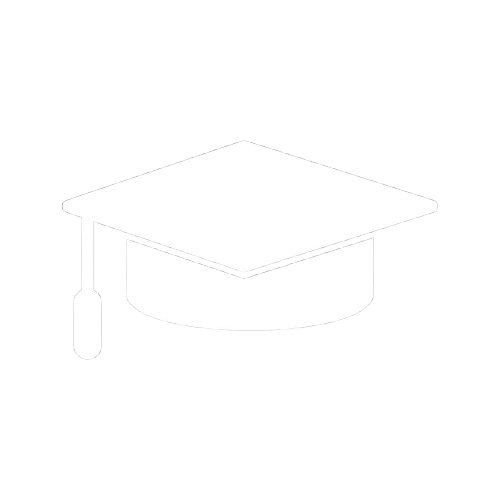
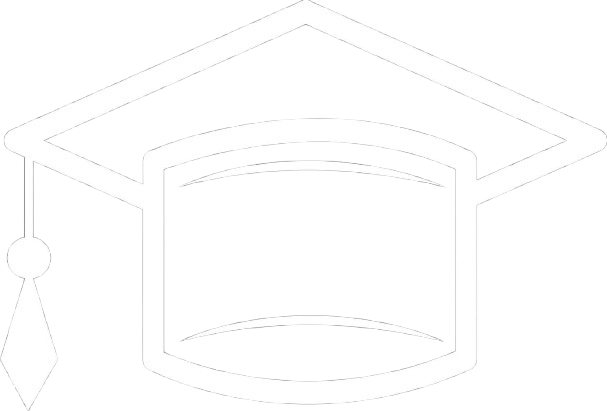
adicionado novas imagens

diff --git a/index.html b/index.html
@@ -197,7 +197,7 @@
         <div class="row">
           <div class="col-lg-6">
             <div class="about__pic">
-              <img src="img/about/about.png" alt="DJ Fernando" />
+              <img src="img/about/about_1.jpeg" alt="DJ Fernando" />
             </div>
           </div>
           <div class="col-lg-6">
@@ -261,18 +261,21 @@
                   <img src="img/services/service-2.png" alt="" />
                   <h4>Formatura</h4>
                   <p>
-                    Energia contagiante que faz a pista ferver do início ao fim.
-                    A experiência completa que seu público merece.
+                    Celebre essa conquista com uma festa inesquecível. Música
+                    envolvente, energia contagiante e uma pista animada para
+                    transformar sua formatura em um momento único.
                   </p>
                 </div>
               </div>
+
               <div class="col-lg-6 p-0 order-lg-4 col-md-6 order-md-4">
                 <div class="service__item deep-bg">
-                  <img src="img/services/service-4.png" alt="" />
-                  <h4>Aulas de DJ</h4>
+                  <img src="img/services/service-4.png" alt="" style="width: 80px;"/>
+                  <h4>XV Anos</h4>
                   <p>
-                    Compartilho minha experiência e técnicas em aulas
-                    personalizadas para quem deseja entrar no mundo da música.
+                    Uma noite mágica para celebrar seus 15 anos com estilo,
+                    emoção e muita música. Cada detalhe pensado para criar
+                    momentos inesquecíveis na pista de dança.
                   </p>
                 </div>
               </div>